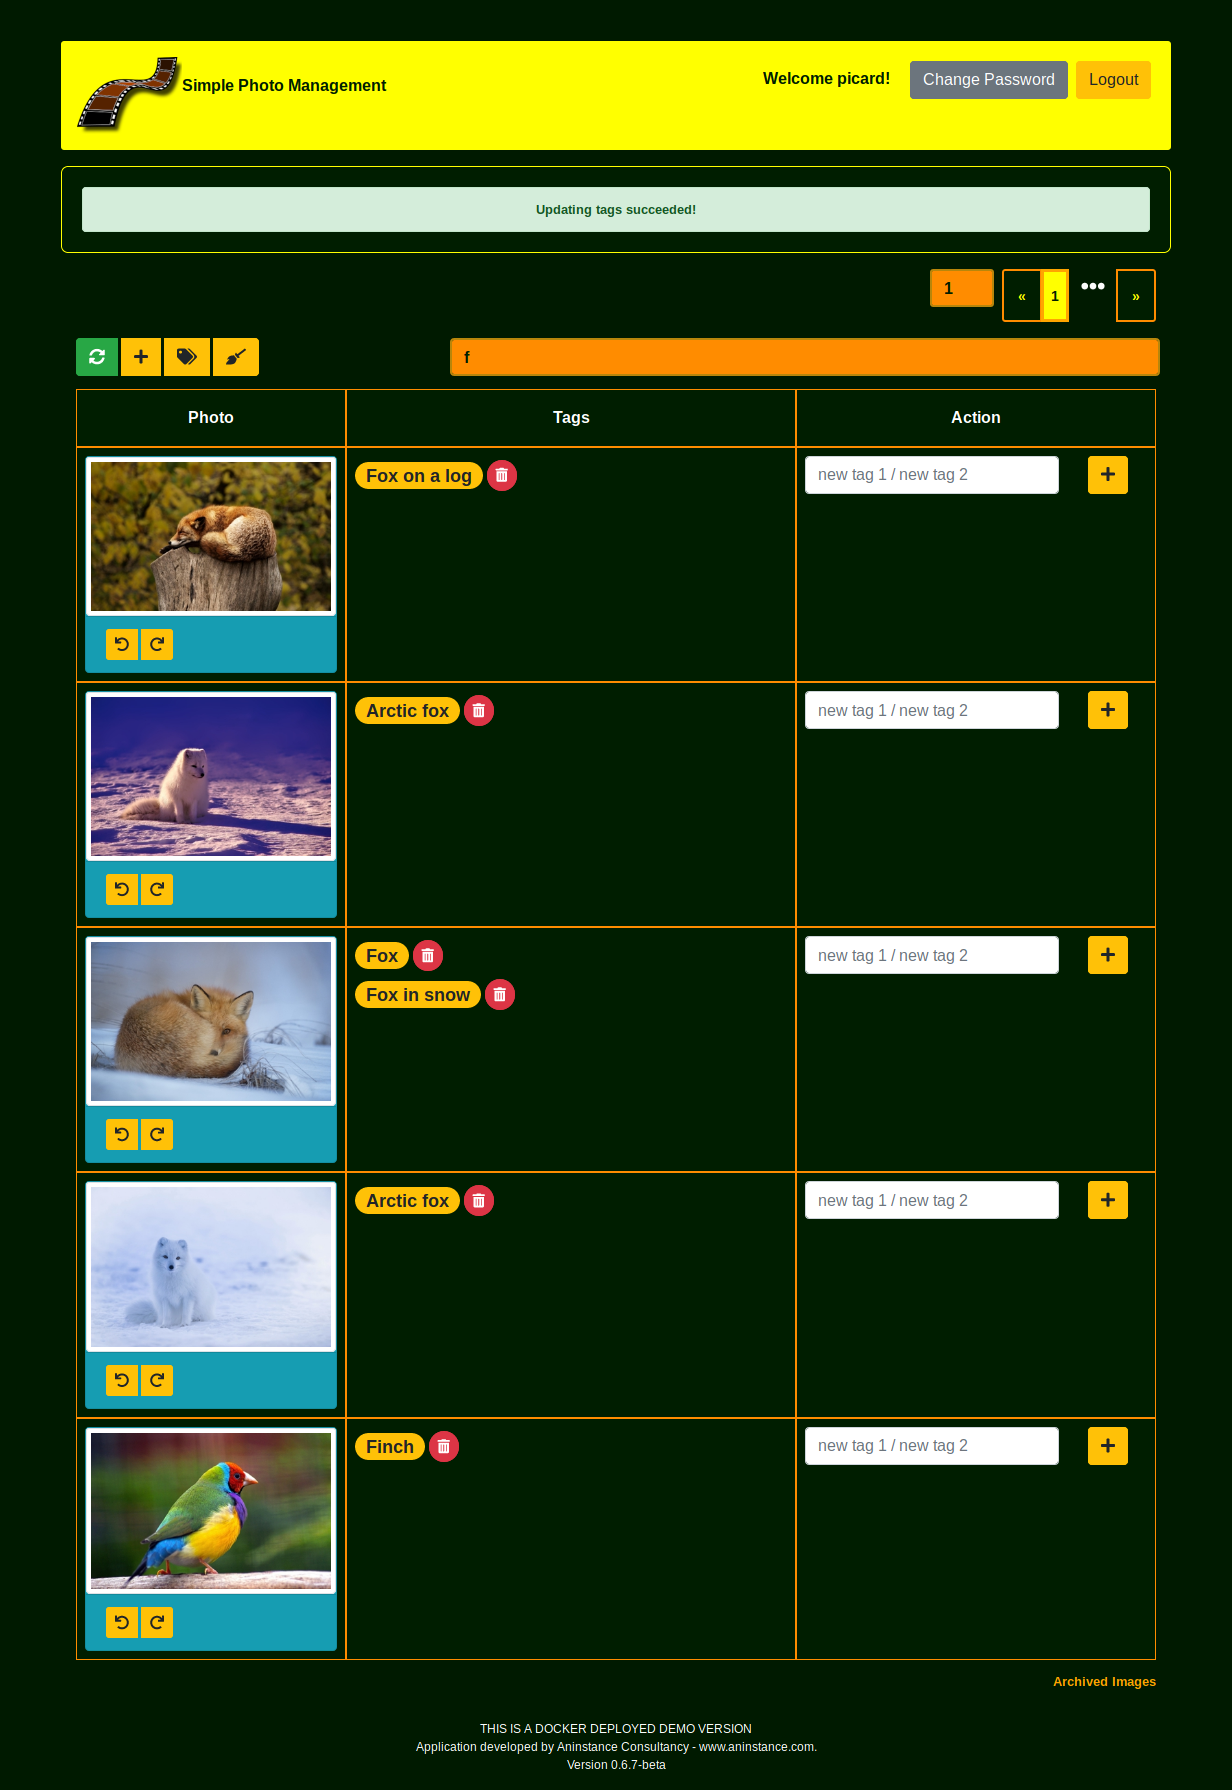
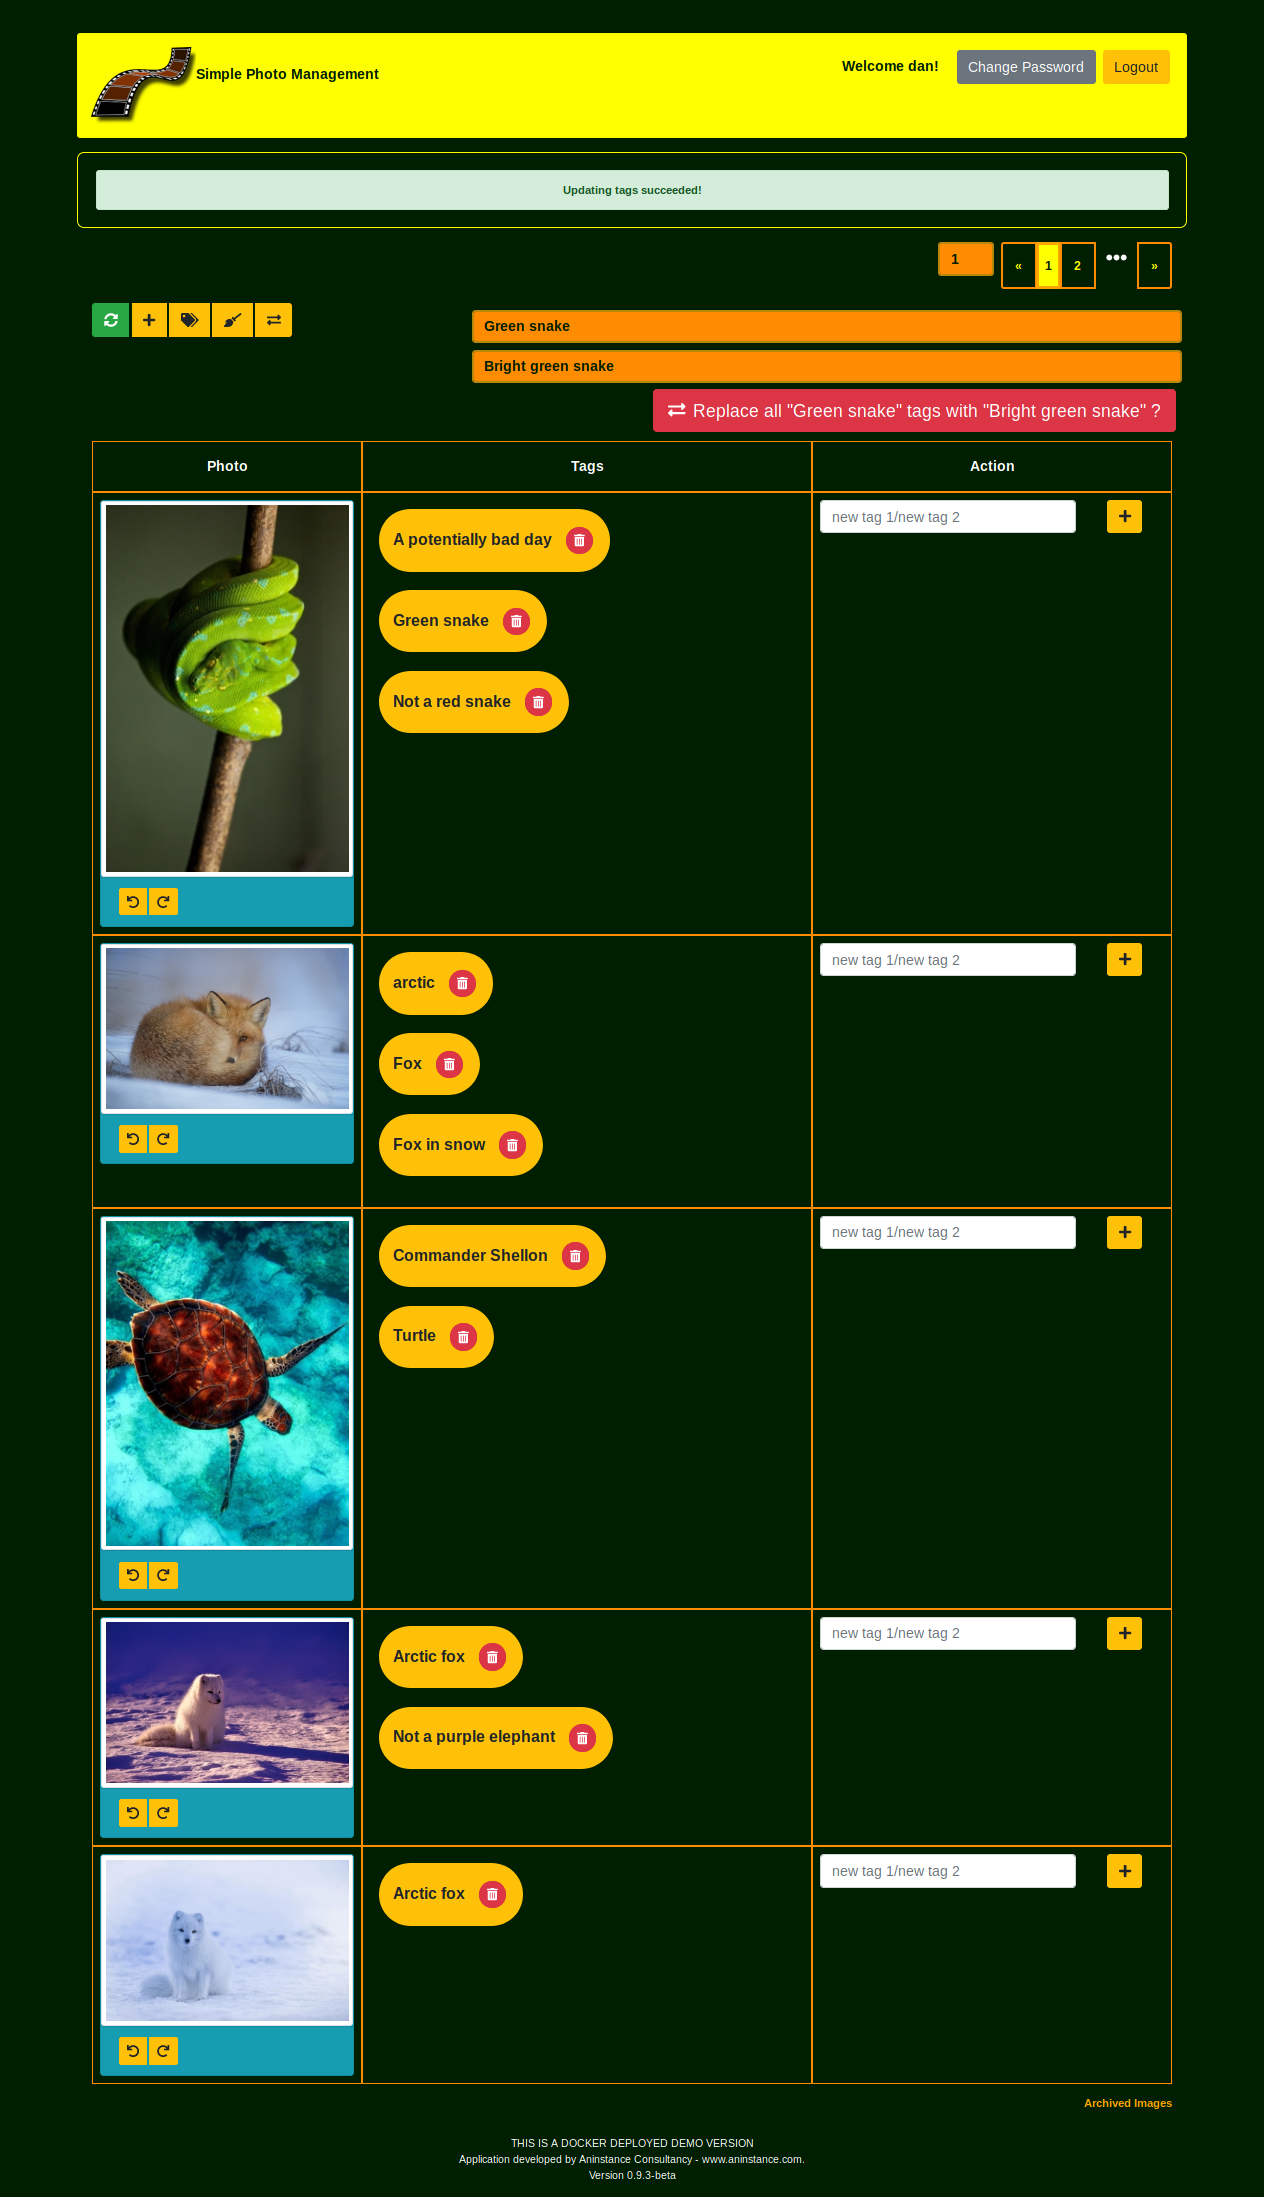
Update README

diff --git a/README.md b/README.md
@@ -33,6 +33,8 @@ Login credentials are:
 - Display & download optimised & resized versions of large images in the web interface
 - Database IPTC tags associated with each image
 - Search for & display digital images containing single IPTC tags or a combination of multiple tags
+- Search and replace IPTC tags over all scanned image directories
+- Switch between `light` and `dark` modes (by setting an environment variable)
 
 ## Key technologies
 
@@ -141,6 +143,8 @@ To use the Docker images orchestrated with docker-compose:
   - To search for images that contain a combination of multiple tags, separate search words or phrases with either a space, or a forward slash `/`.
 - Clicking the button with the `tag` icon re-scans all images in photo_directory, adds any newly discovered images and recopies all IPTC keyword tags to the database. To simply add new images without re-copying the tags, use the `+` button instead.
 - Clicking the button with the `broom` icon cleans the database of references to any processed images that no longer exist in the `media` directories or the origin image `photo_directory`.
+- Clicking the button with the `swap` icon (left & right arrows) switches to `search & replace` mode, which allows replacement of an IPTC tag in all images with another:
+  -Simply enter the term to search for in the upper `Search` field, the replacement tag in the `Replace` field, then click on the red button to `search & replace`.
 - Add new tags to an image in one of two ways. These actions both write the new tag(s) to the metadata of the **ORIGINAL IMAGE** and to the database.:
   - By entering them in the input field, in the `Action` column. Separate multiple tags with a `/`.
   - By selecting from the list of previously used tags, that appears below the input field after you've begun to enter your tag. As you continue to type, this list resolves to display tags containing a sequence of characters that match your input.
@@ -154,6 +158,8 @@ The above guide is not definitive and is intended for users who know their way a
 - ~~Automated display of tag suggestions (based on real-time character matching & most used) when adding IPTC tags to an image~~ [Complete]
 - Enhancement of `clean` to facilitate deletion of processed image files & thumbnails (rather just database entries) when origin image no longer exists
 - Tag suggestions based on facial recognition
+- Expose switching between `light` and `dark` modes on the UI rather than requiring setting of environment variable
+- Remove tags from the used-tag list if no longer used for any images
 
 ## Support
 
